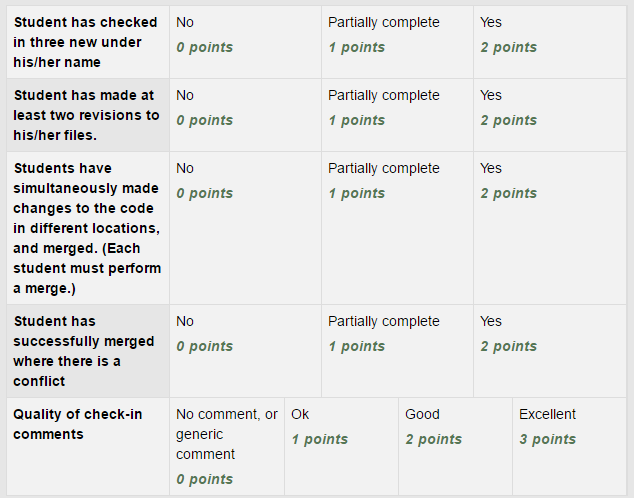
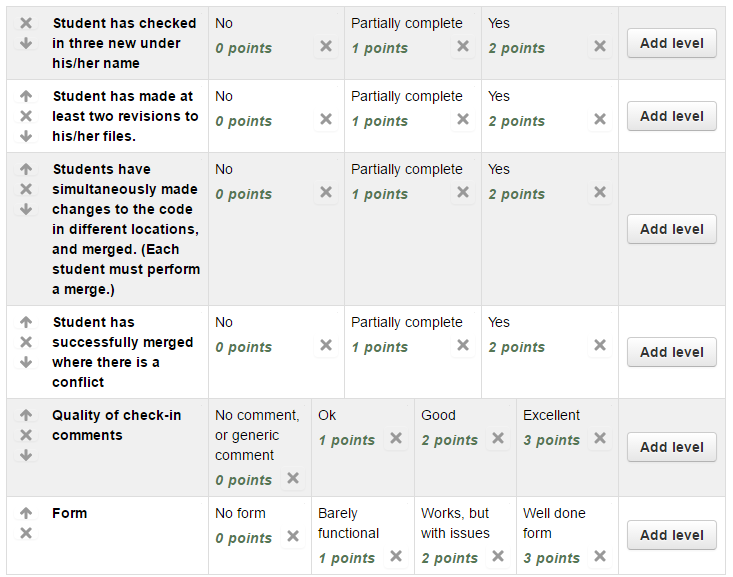
Update DVCS assignment.

diff --git a/source/assignments/dvcs/dvcs.rst b/source/assignments/dvcs/dvcs.rst
@@ -4,9 +4,10 @@ Assignment 2 - DVCS
 Turn in Assignment 2
 ^^^^^^^^^^^^^^^^^^^^
 
-* Each person should be checking in at least three ``.html`` files.
-* At least one image should be added in by someone.
-* You should have a proper directory layout.
+* Each person should be checking in at least three ``.html`` files. (From assignment one.)
+* At least one image should be added in by someone. (From assignment one.)
+* You should have a proper directory layout. (From assignment one.)
+* Each person should make at least two revisions to his/her own files.
 * Each person should do a "merge" where files have changed on the server.
 * Each person should do at least one merge where there are file conflicts.
 * Each commit should have a descriptive comment.
@@ -15,3 +16,8 @@ Turn in Assignment 2
 * The other person will create a sign-up form.
 * If you have three people, dream up a third form.
 * Paste the GitHub URL for the website and submit Assignment 2.
+
+.. image:: rubric.png
+    :width: 500px
+    :align: center
+    :alt: alt
